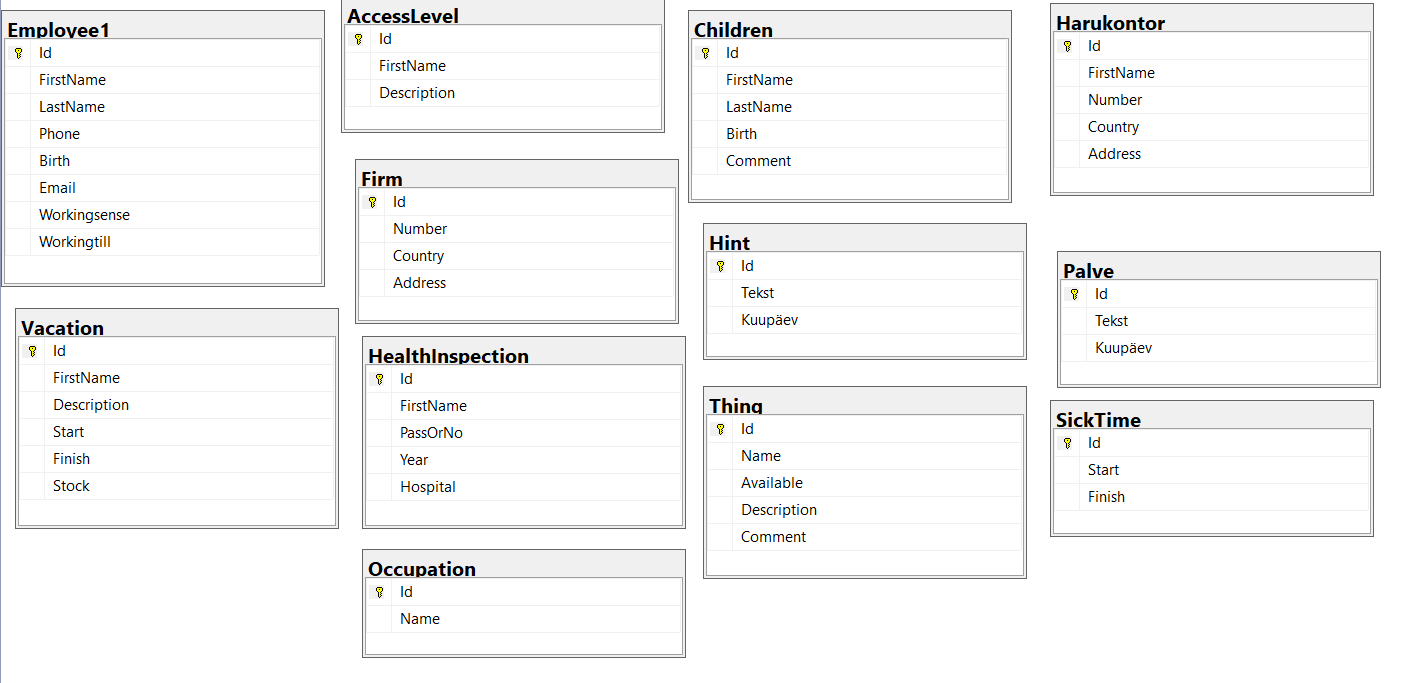
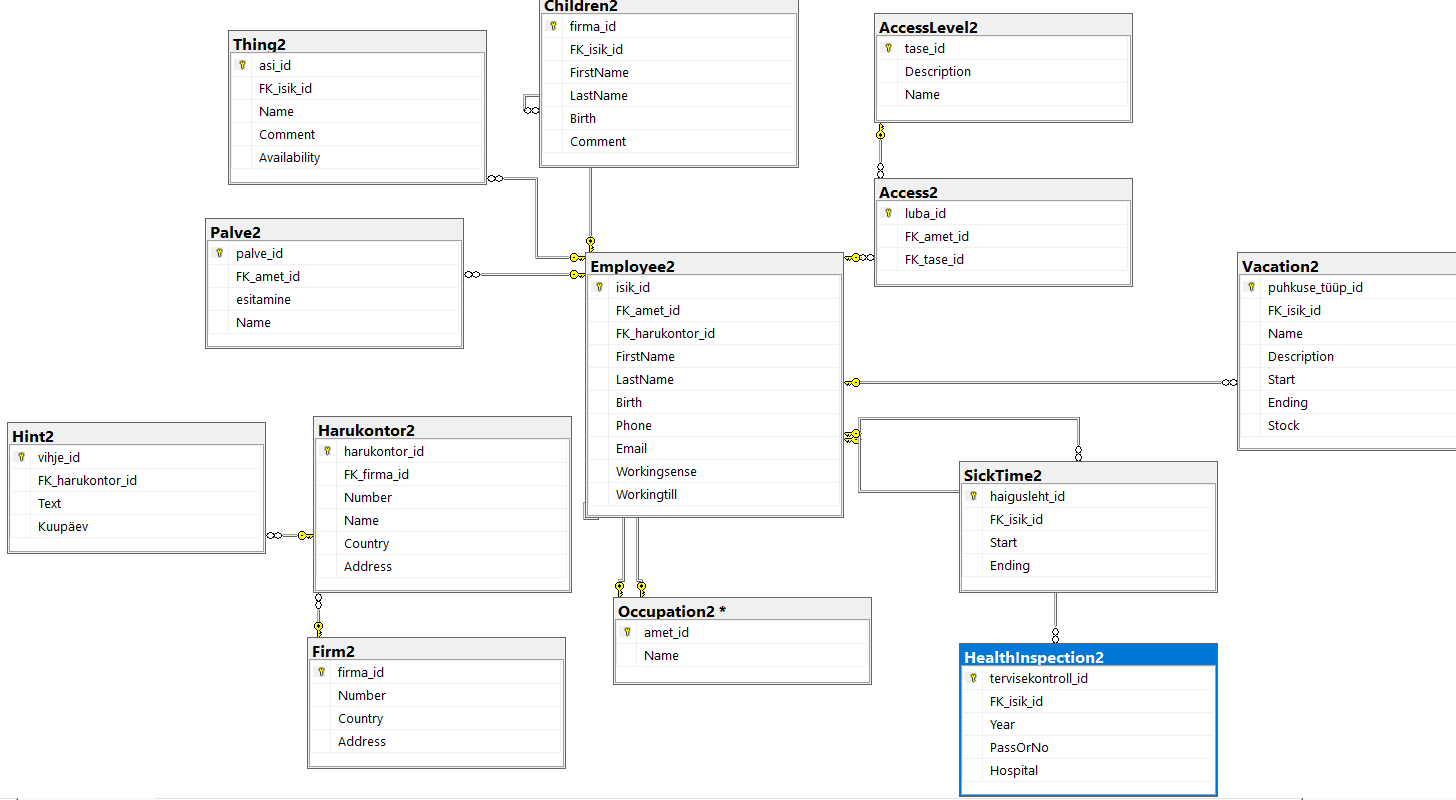
uus readme

diff --git a/TARge20.Core/Domain/Employee.cs b/TARge20.Core/Domain/Employee.cs
@@ -76,7 +76,7 @@ namespace TARge20.Core.Domain
     public class Children
     {
         [Key]
-        public Guid Id { get; set; }
+        primary firma_id { get; set; }
 
         public string FirstName { get; set; }
         public string LastName { get; set; }
